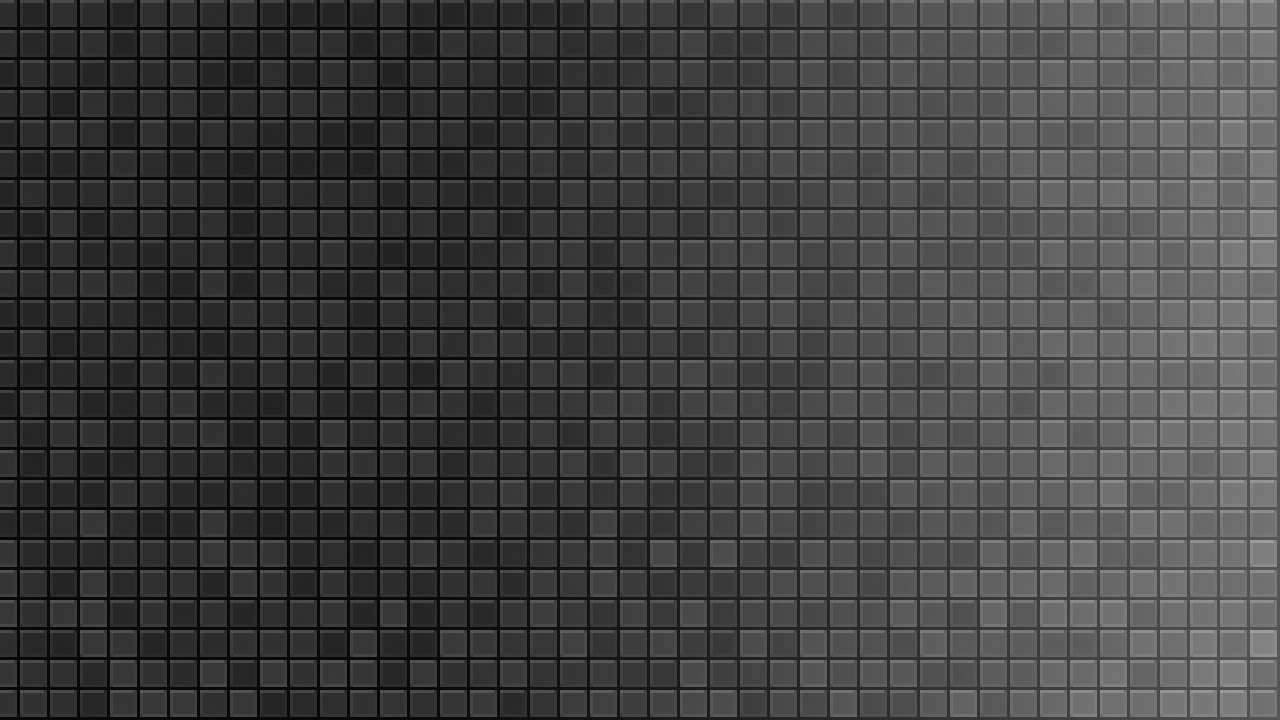
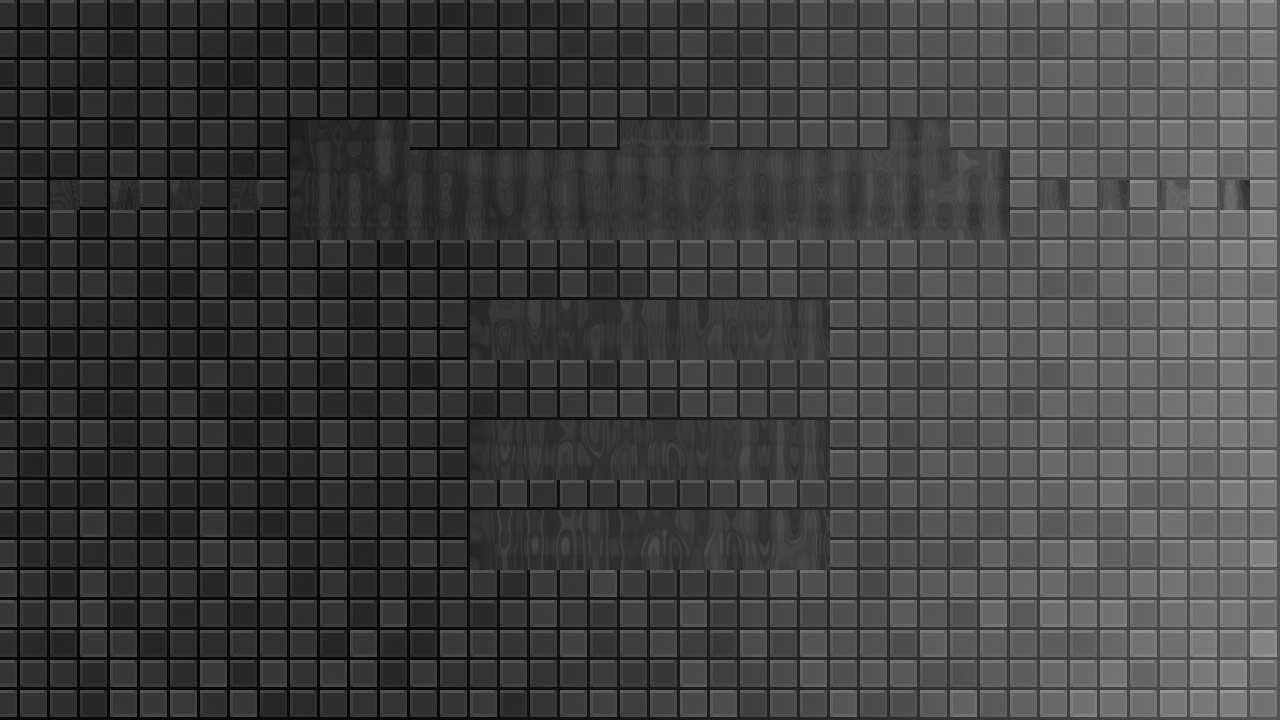
Designing.
git-tfs-id: [https://tfs.codeplex.com:443/tfs/TFS15]$/Atomix;C42058

diff --git a/Atomix/Game/Atomix/Screens/StartScreen.cs b/Atomix/Game/Atomix/Screens/StartScreen.cs
@@ -23,6 +23,7 @@ namespace Mach.Kinectomix.Screens
 
         private KinectMessageBox _quitMessageBox;
         private KinectCircleCursor _cursor;
+        private Texture2D _backgroundTexture;
 
         public StartScreen(SpriteBatch spriteBatch)
         {
@@ -36,13 +37,49 @@ namespace Mach.Kinectomix.Screens
             _quitMessageBox = new KinectMessageBox(ScreenManager.Game, ScreenManager.InputProvider, _cursor);
             _quitMessageBox.Changed += _quitMessageBox_Changed;
 
-            _startButton = new KinectButton(ScreenManager.Game, _cursor, StartScreenResources.PlayGame);
+            _startButton = new KinectButton(ScreenManager.Game, _cursor, StartScreenResources.PlayGame)
+            {
+                BorderThickness = 0,
+                Padding = 2,
+                Height = 56,
+                Width = 356,
+                InputProvider = ScreenManager.InputProvider,
+                Background = Color.Transparent,
+                Foreground = Color.White,
+                ActiveBackground = Color.Black,
+                DisabledBackground = Color.Transparent,
+                DisabledForeground = Color.Gray,
+            };
             _startButton.Selected += Start_Selected;
 
-            _levelsButton = new KinectButton(ScreenManager.Game, _cursor, StartScreenResources.Levels);
+            _levelsButton = new KinectButton(ScreenManager.Game, _cursor, StartScreenResources.Levels)
+            {
+                BorderThickness = 0,
+                Padding = 2,
+                Height = 56,
+                Width = 356,
+                InputProvider = ScreenManager.InputProvider,
+                Background = Color.Transparent,
+                Foreground = Color.White,
+                ActiveBackground = Color.Black,
+                DisabledBackground = Color.Transparent,
+                DisabledForeground = Color.Gray,
+            };
             _levelsButton.Selected += Levels_Selected;
 
-            _quitButton = new KinectButton(ScreenManager.Game, _cursor, StartScreenResources.QuitGame);
+            _quitButton = new KinectButton(ScreenManager.Game, _cursor, StartScreenResources.QuitGame)
+            {
+                BorderThickness = 0,
+                Padding = 2,
+                Height = 56,
+                Width = 356,
+                InputProvider = ScreenManager.InputProvider,
+                Background = Color.Transparent,
+                Foreground = Color.White,
+                ActiveBackground = Color.Black,
+                DisabledBackground = Color.Transparent,
+                DisabledForeground = Color.Gray,
+            };
             _quitButton.Selected += Quit_Selected;
 
             Components.Add(_startButton);
@@ -54,11 +91,25 @@ namespace Mach.Kinectomix.Screens
             base.Initialize();
         }
 
+        protected override void LoadContent()
+        {
+            _backgroundTexture = ScreenManager.Content.Load<Texture2D>("Backgrounds/Start");
+            _splashFont = ScreenManager.Content.Load<SpriteFont>("Fonts/Title");
+            _normalFont = ScreenManager.Content.Load<SpriteFont>("Fonts/Normal");
+
+            _quitMessageBox.Font = _normalFont;
+            _startButton.Font = _normalFont;
+            _levelsButton.Font = _normalFont;
+            _quitButton.Font = _normalFont;
+
+            base.LoadContent();
+        }
+
         public override void Update(GameTime gameTime)
         {
-            _startButton.Position = new Vector2(ScreenManager.GraphicsDevice.Viewport.Bounds.Width / 2 - _startButton.Width / 2, ScreenManager.GraphicsDevice.Viewport.Bounds.Height / 2 - 80);
-            _levelsButton.Position = new Vector2(ScreenManager.GraphicsDevice.Viewport.Bounds.Width / 2 - _startButton.Width / 2, ScreenManager.GraphicsDevice.Viewport.Bounds.Height / 2 + 20);
-            _quitButton.Position = new Vector2(ScreenManager.GraphicsDevice.Viewport.Bounds.Width / 2 - _quitButton.Width / 2, ScreenManager.GraphicsDevice.Viewport.Bounds.Height / 2 + 50 + _quitButton.Height);
+            _startButton.Position = new Vector2(470, 300);
+            _levelsButton.Position = new Vector2(_startButton.Position.X, _startButton.Position.Y + _startButton.ActualHeight + 60);
+            _quitButton.Position = new Vector2(_levelsButton.Position.X, _levelsButton.Position.Y + _levelsButton.ActualHeight + 60);
 
             KeyboardState state = Keyboard.GetState();
 
@@ -81,30 +132,14 @@ namespace Mach.Kinectomix.Screens
             Vector2 size = _splashFont.MeasureString(name);
 
             _spriteBatch.Begin();
-            _spriteBatch.DrawStringWithShadow(_splashFont, name, new Vector2(ScreenManager.GraphicsDevice.Viewport.Bounds.Width / 2 - size.X / 2, ScreenManager.GraphicsDevice.Viewport.Bounds.Height / 2 - 220), KinectomixGame.BrickColor);
+            _spriteBatch.Draw(_backgroundTexture, new Rectangle(0, 0, ScreenManager.Game.GraphicsDevice.Viewport.Bounds.Width, ScreenManager.Game.GraphicsDevice.Viewport.Bounds.Height), Color.White);
+            _spriteBatch.DrawStringWithShadow(_splashFont, name, new Vector2(7 + ScreenManager.GraphicsDevice.Viewport.Bounds.Width / 2 - size.X / 2, ScreenManager.GraphicsDevice.Viewport.Bounds.Height / 2 - 245), KinectomixGame.BrickColor);
             _spriteBatch.End();
 
             base.Draw(gameTime);
         }
 
-        protected override void LoadContent()
-        {
-            _splashFont = ScreenManager.Content.Load<SpriteFont>("Fonts/Title");
-            _normalFont = ScreenManager.Content.Load<SpriteFont>("Fonts/Normal");
 
-            _quitMessageBox.Font = _normalFont;
-
-            _startButton.Font = _normalFont;
-            _startButton.InputProvider = ScreenManager.InputProvider;
-
-            _levelsButton.Font = _normalFont;
-            _levelsButton.InputProvider = ScreenManager.InputProvider;
-
-            _quitButton.Font = _normalFont;
-            _quitButton.InputProvider = ScreenManager.InputProvider;
-
-            base.LoadContent();
-        }
 
         public override void Activated()
         {
